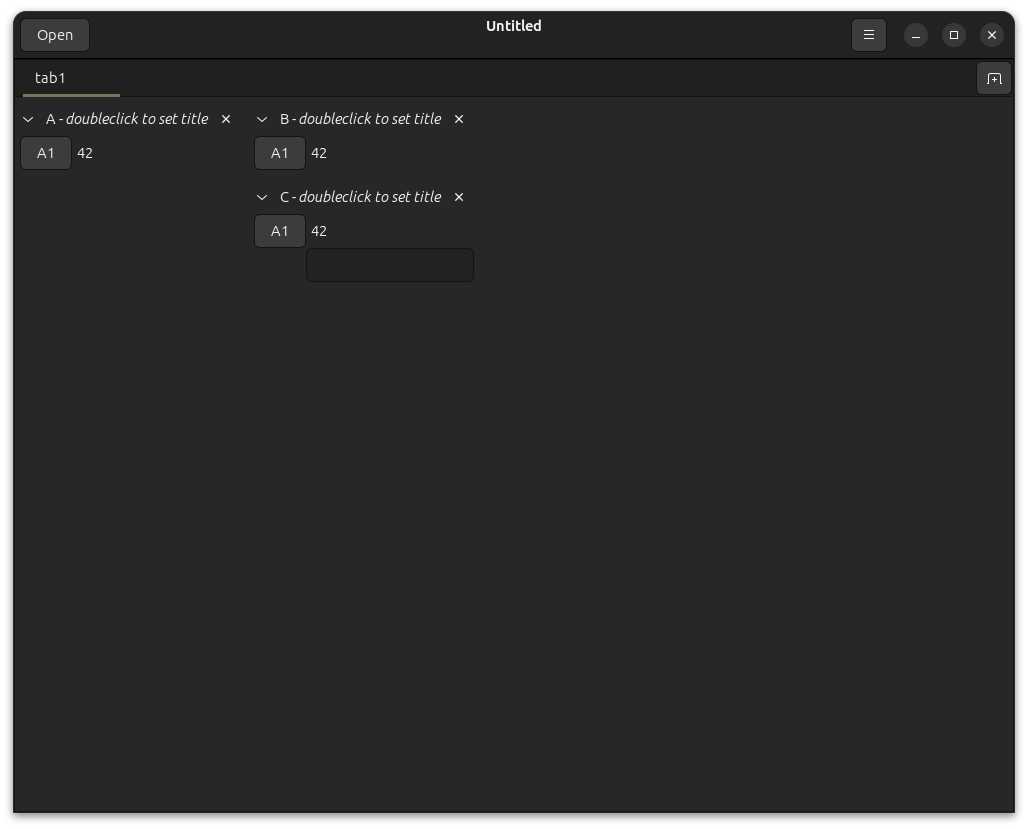
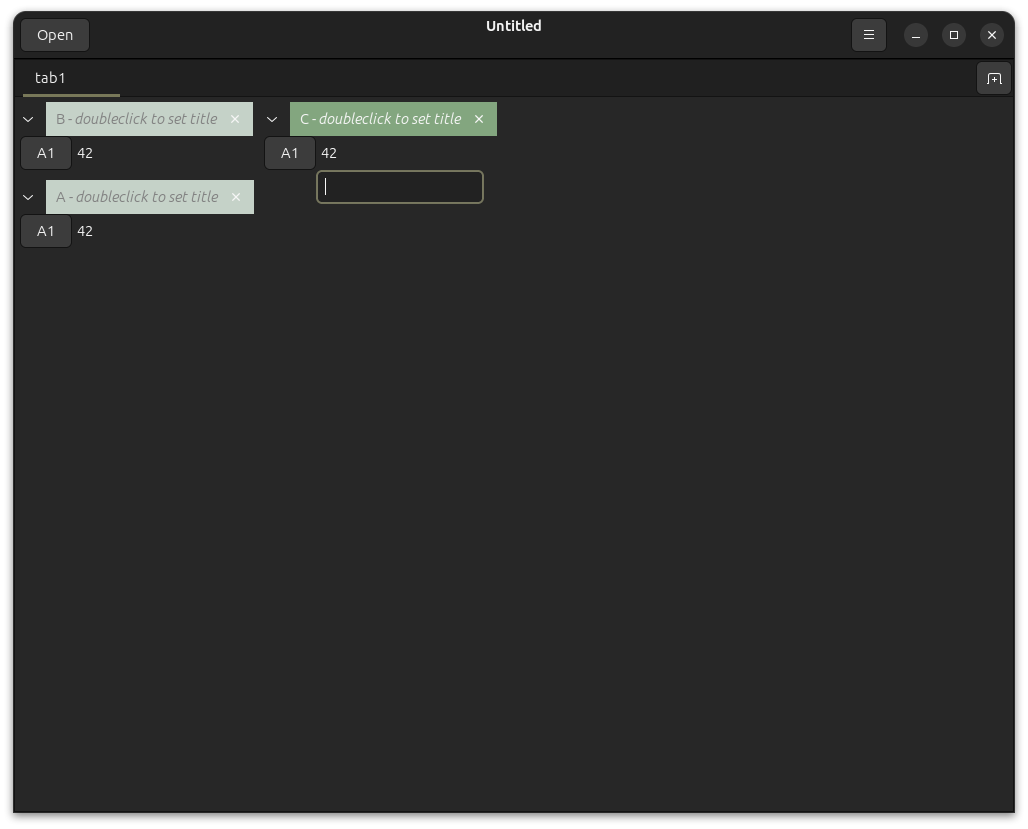
column titlebar colour

Changed region(s): [[0.0311, 0.1206, 0.4981, 0.2714], [0.0311, 0.2111, 0.249, 0.2714]]

diff --git a/src/gtk/columnview.css b/src/gtk/columnview.css
@@ -1,0 +1,14 @@
+#selected_column {
+  background-color: #83A67F;
+}
+
+#column {
+  background-color: #C5D2C8;
+  color: grey;
+}
+
+#shadow_column {
+  background-color: #5D7555;
+}
+
+

diff --git a/src/app.c b/src/app.c
@@ -112,9 +112,6 @@ static GActionEntry app_entries[] = {
 static void
 app_startup(GApplication *app)
 {
-	int i;
-	GtkSettings *settings;
-
 	struct {
 		const gchar *action_and_target;
 		const gchar *accelerators[2];
@@ -147,7 +144,7 @@ app_startup(GApplication *app)
 	/* Image display programs are supposed to default to a dark theme,
 	 * according to the HIG.
 	 */
-	settings = gtk_settings_get_default();
+	GtkSettings *settings = gtk_settings_get_default();
 	g_object_set(settings,
 		"gtk-application-prefer-dark-theme", TRUE,
 		NULL);
@@ -155,11 +152,10 @@ app_startup(GApplication *app)
 	/* We have custom CSS for our dynamic widgets.
 	 */
 	GtkCssProvider *provider = gtk_css_provider_new();
-	gtk_css_provider_load_from_resource(provider,
-		APP_PATH "/mainwindow.css");
+	gtk_css_provider_load_from_resource(provider, APP_PATH "/mainwindow.css");
+	gtk_css_provider_load_from_resource(provider, APP_PATH "/columnview.css");
 	gtk_style_context_add_provider_for_display(gdk_display_get_default(),
-		GTK_STYLE_PROVIDER(provider),
-		GTK_STYLE_PROVIDER_PRIORITY_FALLBACK);
+		GTK_STYLE_PROVIDER(provider), GTK_STYLE_PROVIDER_PRIORITY_FALLBACK);
 
 	/* Build our classes.
 	 */
@@ -170,7 +166,7 @@ app_startup(GApplication *app)
 	g_action_map_add_action_entries(G_ACTION_MAP(app),
 		app_entries, G_N_ELEMENTS(app_entries), app);
 
-	for (i = 0; i < G_N_ELEMENTS(accels); i++)
+	for (int i = 0; i < G_N_ELEMENTS(accels); i++)
 		gtk_application_set_accels_for_action(GTK_APPLICATION(app),
 			accels[i].action_and_target, accels[i].accelerators);
 }

diff --git a/src/columnview.c b/src/columnview.c
@@ -541,21 +541,21 @@ columnview_refresh(vObject *vobject)
 			!cview->master);
 
 	/* Set select state.
+	 */
 	if (cview->master)
-		gtk_widget_set_name(cview->title, "shadow_widget");
+		gtk_widget_set_name(cview->title, "shadow_column");
 	else if (col->selected && !cview->selected) {
-		gtk_widget_set_name(cview->title, "selected_widget");
+		gtk_widget_set_name(cview->title, "selected_column");
 		cview->selected = TRUE;
-		if (cview->textfr)
-			gtk_widget_grab_focus(cview->text);
+		if (cview->entry)
+			gtk_widget_grab_focus(cview->entry);
 	}
 	else if (!col->selected) {
 		// Always do this, even if cview->selected, so we set on the
 		// first _refresh().
-		gtk_widget_set_name(cview->title, "column_widget");
+		gtk_widget_set_name(cview->title, "column");
 		cview->selected = FALSE;
 	}
-	 */
 
 	VOBJECT_CLASS(columnview_parent_class)->refresh(vobject);
 }

diff --git a/src/main.c b/src/main.c
@@ -22,6 +22,7 @@
  */
 
 /*
+#define DEBUG_FATAL
  */
 #define DEBUG
 
@@ -158,16 +159,6 @@ main(int argc, char **argv)
 
 #ifdef DEBUG
 	vips_leak_set(TRUE);
-
-	g_log_set_always_fatal(
-		G_LOG_FLAG_RECURSION |
-		G_LOG_FLAG_FATAL |
-		G_LOG_LEVEL_ERROR |
-		G_LOG_LEVEL_CRITICAL |
-		G_LOG_LEVEL_WARNING |
-		0);
-
-	g_setenv("G_DEBUG", "fatal-warnings", TRUE);
 #endif /*DEBUG*/
 
 	/* Set localised application name.
